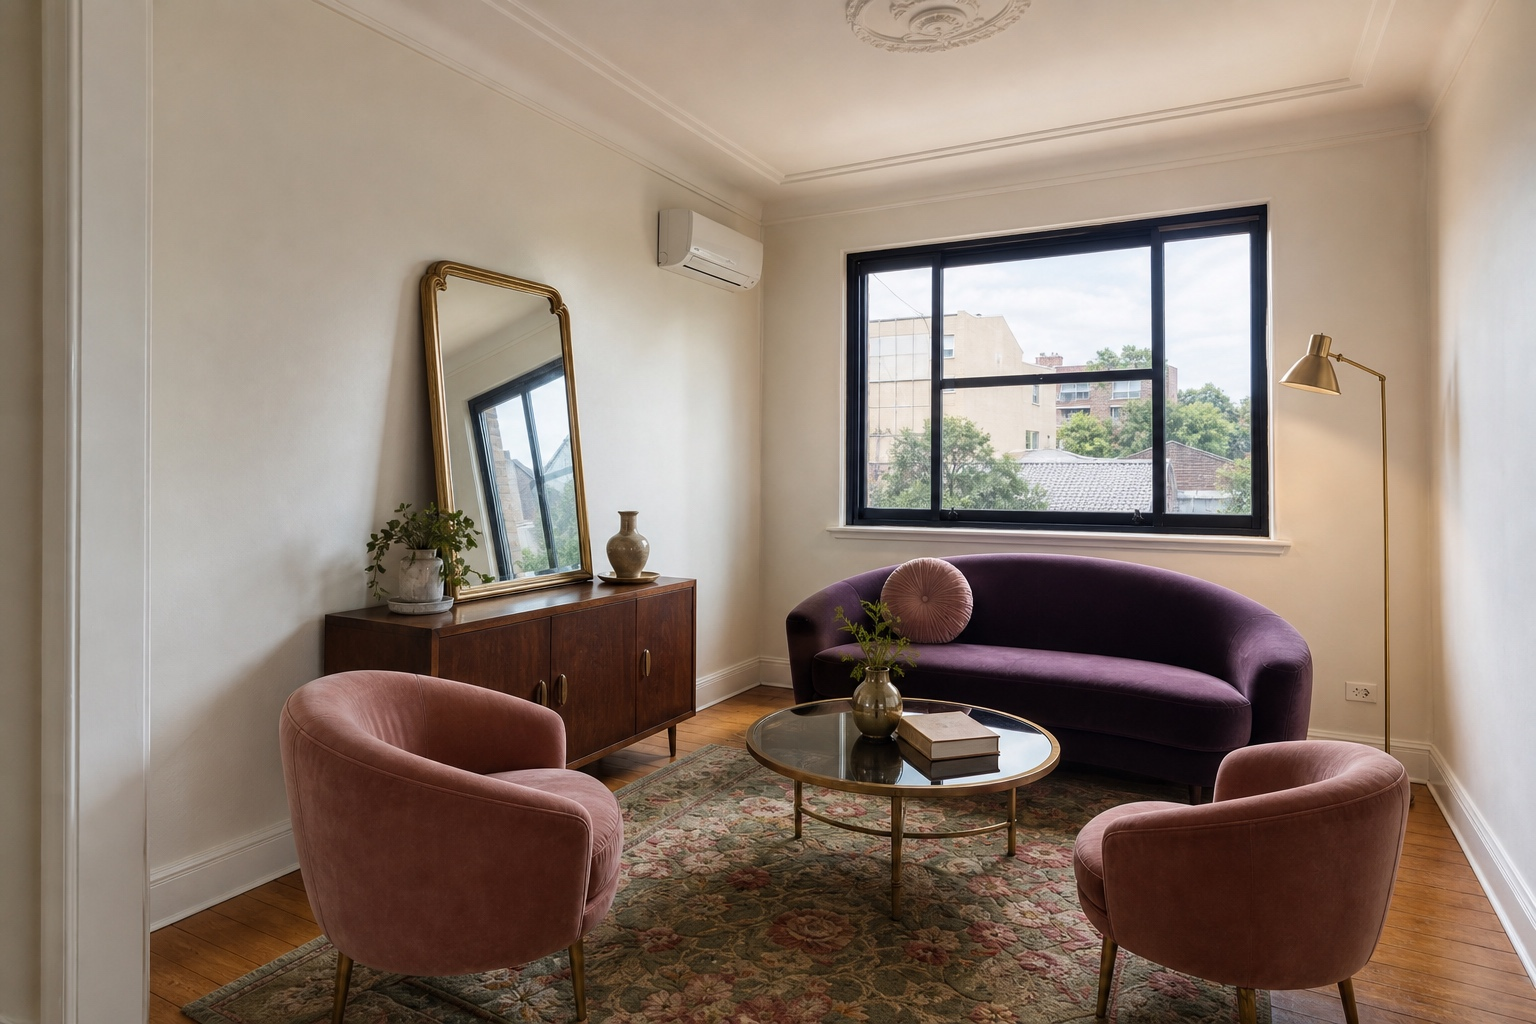
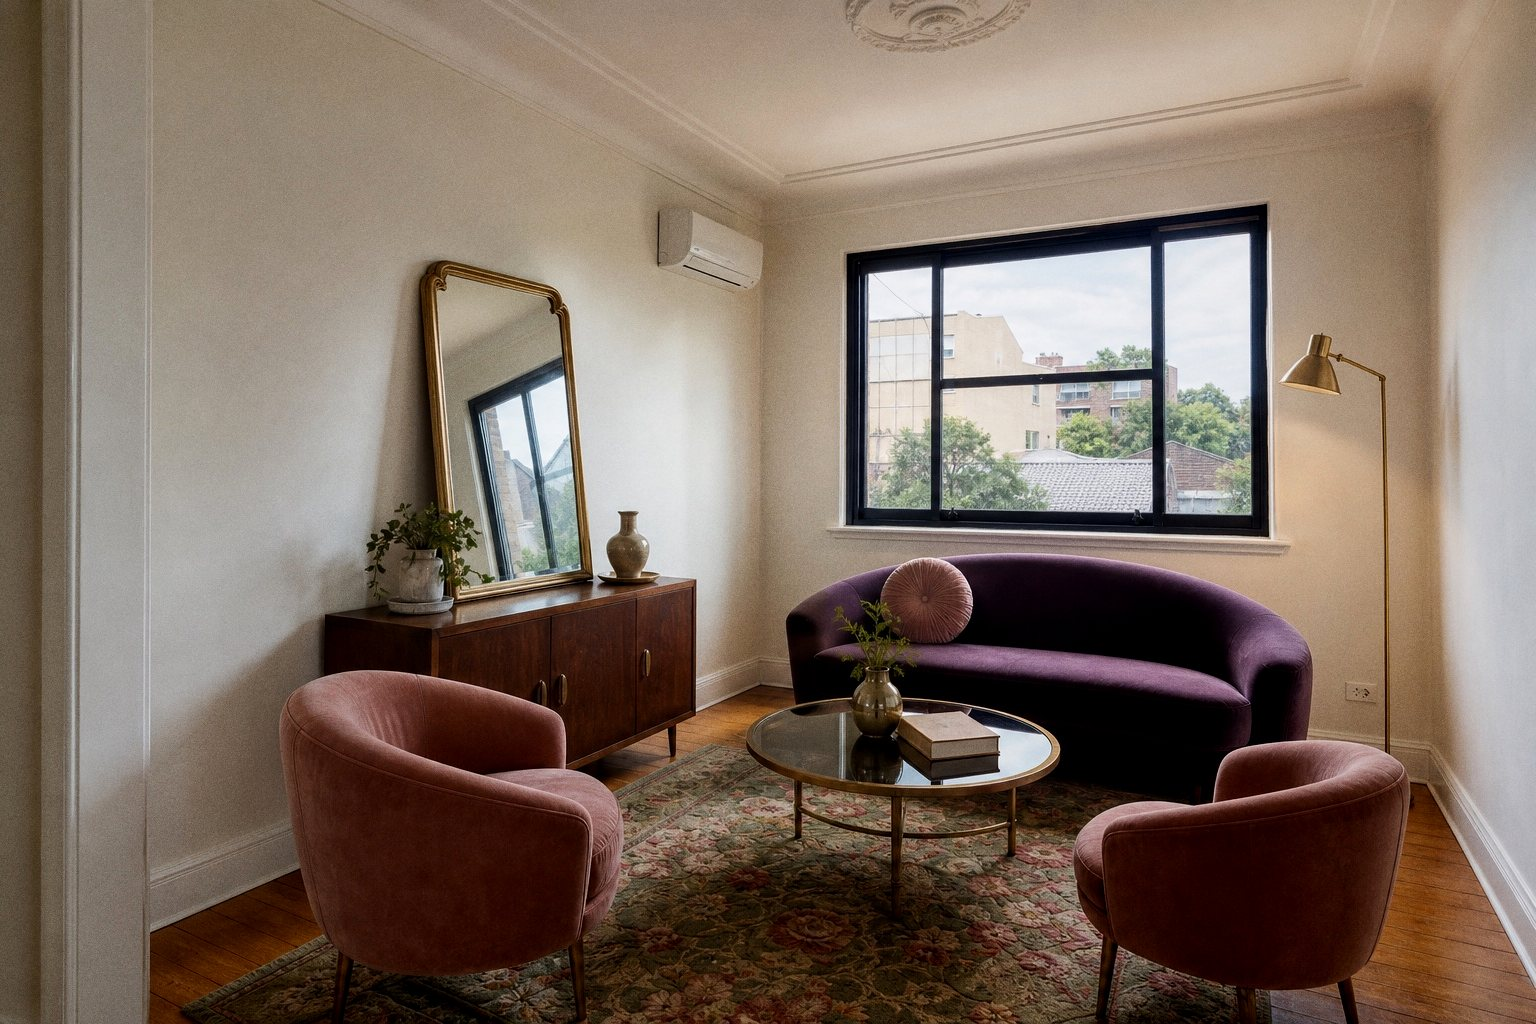
Refined bookmark rail: brand diamond markers + hairline + Cormorant labels; grade 16 new v2/v3 pair images

Changed region(s): [[0.0, 0.0, 1.0, 1.0]]

diff --git a/src/components/StyleGallery.tsx b/src/components/StyleGallery.tsx
@@ -1,10 +1,10 @@
 import { useEffect, useState } from 'react'
 import { Link } from 'react-router-dom'
 import BeforeAfter from './BeforeAfter'
-import { roomPairs } from '../data'
+import { roomPairs, visibleStyleIndicesByRoom } from '../data'
 import { useLang } from '../i18n'
 
-// 六个功能区 × 三种风格，每格一个「空房 → 布置后」拖动对比。
+// 六个功能区 × 两种公开风格，每格一个「空房 → 布置后」拖动对比。
 // preview 模式（首页）只显示 6 格布置后的静态方格，点击进入 /gallery。
 // 完整模式按房间分节：桌面端左侧粘性快速跳转，移动端顶部横向胶囊条。
 const ROOM_IDS = ['living', 'lounge', 'dining', 'kitchen', 'bedroom', 'bathroom']
@@ -13,8 +13,8 @@ export default function StyleGallery({ preview = false }: { preview?: boolean })
   const { t } = useLang()
   const [active, setActive] = useState(ROOM_IDS[0])
 
-  // 首页预览 6 格：六个空间轮流展示三个系列（豪宅/温馨公寓/撞色）
-  const PREVIEW_IDX = [0, 4, 8, 9, 13, 17]
+  // 首页预览每个房间 1 格，仅保留 Living 一组豪宅作为首屏代表。
+  const PREVIEW_IDX = [0, 4, 8, 10, 13, 16]
 
   // 滚动监听：高亮当前所在房间（仅完整模式）
   useEffect(() => {
@@ -65,12 +65,11 @@ export default function StyleGallery({ preview = false }: { preview?: boolean })
     document.getElementById(id)?.scrollIntoView({ behavior: 'smooth', block: 'start' })
   }
 
-  // 按房间分组：每组 3 格（与 roomPairs / t.styles 同序）
+  // 按房间分组：每组 2 格，源素材索引仍与 roomPairs / t.styles 对齐。
   const groups = ROOM_IDS.map((id, g) => ({
     id,
     label: t.gallery.rooms[g],
-    items: [0, 1, 2].map((k) => {
-      const i = g * 3 + k
+    items: visibleStyleIndicesByRoom[g].map((i) => {
       return { pair: roomPairs[i], style: t.styles[i] }
     }),
   }))
@@ -96,37 +95,42 @@ export default function StyleGallery({ preview = false }: { preview?: boolean })
         </div>
       </div>
 
-      {/* 宽屏：左侧书签圆点导航（固定在屏幕左缘，衬底卡片 + 大号 dot + 房间名常显） */}
+      {/* 宽屏：左侧书签导航——品牌菱形 ◆ + 细竖线的编辑感设计 */}
       <nav
         aria-label="Room bookmarks"
-        className="fixed left-7 top-1/2 z-40 hidden -translate-y-1/2 flex-col gap-5 rounded-2xl border border-oak/15 bg-linen/90 px-5 py-6 shadow-lg backdrop-blur min-[1400px]:flex"
+        className="fixed left-10 top-1/2 z-40 hidden -translate-y-1/2 min-[1400px]:block"
       >
-        {groups.map((g) => (
-          <button
-            key={g.id}
-            onClick={() => jump(g.id)}
-            className="group flex items-center gap-3.5"
-          >
-            <span className="flex h-5 w-5 items-center justify-center">
-              <span
-                className={`rounded-full transition-all duration-300 ${
-                  active === g.id
-                    ? 'h-4.5 w-4.5 bg-brand shadow ring-4 ring-brand/20'
-                    : 'h-3 w-3 bg-ink/25 group-hover:h-4 group-hover:w-4 group-hover:bg-ink/50'
-                }`}
-              />
-            </span>
-            <span
-              className={`whitespace-nowrap text-[15px] transition-colors ${
-                active === g.id
-                  ? 'font-semibold text-brand-dark'
-                  : 'text-ink/55 group-hover:text-ink/85'
-              }`}
-            >
-              {g.label}
-            </span>
-          </button>
-        ))}
+        <div className="relative">
+          <span className="absolute bottom-3 left-[5.5px] top-3 w-px bg-oak/30" aria-hidden />
+          <div className="flex flex-col gap-7">
+            {groups.map((g) => (
+              <button
+                key={g.id}
+                onClick={() => jump(g.id)}
+                className="group flex items-center gap-4"
+              >
+                <span className="relative z-10 flex h-3 w-3 items-center justify-center">
+                  <span
+                    className={`block rotate-45 transition-all duration-300 ${
+                      active === g.id
+                        ? 'h-3 w-3 bg-brand shadow-sm'
+                        : 'h-2 w-2 border border-oak/70 bg-cream group-hover:bg-oak/40'
+                    }`}
+                  />
+                </span>
+                <span
+                  className={`font-display whitespace-nowrap text-[17px] tracking-wide transition-colors ${
+                    active === g.id
+                      ? 'text-ink'
+                      : 'text-ink/45 group-hover:text-ink/80'
+                  }`}
+                >
+                  {g.label}
+                </span>
+              </button>
+            ))}
+          </div>
+        </div>
       </nav>
 
       {/* 分组内容 */}
@@ -138,7 +142,7 @@ export default function StyleGallery({ preview = false }: { preview?: boolean })
                 <h2 className="font-display text-2xl">{g.label}</h2>
                 <span className="h-px flex-1 bg-oak/25" />
               </div>
-              <div className="grid gap-x-6 gap-y-10 sm:grid-cols-2 xl:grid-cols-3">
+              <div className="grid gap-x-6 gap-y-10 sm:grid-cols-2">
                 {g.items.map(({ pair: p, style: s }) => (
                   <div key={p.after}>
                     <BeforeAfter before={p.before} after={p.after} />

diff --git a/src/components/AIStudio.tsx b/src/components/AIStudio.tsx
@@ -1,7 +1,7 @@
 import { useEffect, useMemo, useRef, useState } from 'react'
 import { Link } from 'react-router-dom'
 import { MapPin, Sparkles } from 'lucide-react'
-import { addressSuggestions } from '../data'
+import { addressSuggestions, visibleStyleIndices } from '../data'
 import { useLang } from '../i18n'
 
 type Phase = 'idle' | 'thinking' | 'done' | 'limit'
@@ -151,41 +151,44 @@ export default function AIStudio() {
               <p className="text-sm text-ink/70">{t.ai.nearby(nearbyCount(address), address)}</p>
             </div>
             <div className="grid gap-6 sm:grid-cols-2 lg:grid-cols-3">
-              {t.styles.map((style, i) => (
-                <article
-                  key={style.name}
-                  className="animate-fade-up overflow-hidden rounded-t-[9rem] rounded-b-2xl bg-linen shadow-sm transition-shadow hover:shadow-md"
-                  style={{ animationDelay: `${i * 0.08}s` }}
-                >
-                  <div className="relative aspect-[4/3] overflow-hidden">
-                    <img
-                      src={style.img}
-                      alt={`${style.name} styling preview`}
-                      loading="lazy"
-                      className="h-full w-full object-cover transition-transform duration-500 hover:scale-105"
-                    />
-                    {i === 0 && (
-                      <span className="absolute bottom-3 left-3 rounded-full bg-brand px-3 py-1 text-xs font-medium text-white">
-                        {t.ai.topPick}
-                      </span>
-                    )}
-                  </div>
-                  <div className="p-5">
-                    <h3 className="font-display text-xl">{style.name}</h3>
-                    <p className="mt-1.5 text-sm text-ink/65">{style.blurb}</p>
-                    <div className="mt-3 flex flex-wrap gap-1.5">
-                      {style.tags.map((tag) => (
-                        <span
-                          key={tag}
-                          className="rounded-full bg-sand px-2.5 py-1 text-xs text-ink/70"
-                        >
-                          {tag}
+              {visibleStyleIndices.map((styleIndex, displayIndex) => {
+                const style = t.styles[styleIndex]
+                return (
+                  <article
+                    key={style.name}
+                    className="animate-fade-up overflow-hidden rounded-t-[9rem] rounded-b-2xl bg-linen shadow-sm transition-shadow hover:shadow-md"
+                    style={{ animationDelay: `${displayIndex * 0.08}s` }}
+                  >
+                    <div className="relative aspect-[4/3] overflow-hidden">
+                      <img
+                        src={style.img}
+                        alt={`${style.name} styling preview`}
+                        loading="lazy"
+                        className="h-full w-full object-cover transition-transform duration-500 hover:scale-105"
+                      />
+                      {displayIndex === 0 && (
+                        <span className="absolute bottom-3 left-3 rounded-full bg-brand px-3 py-1 text-xs font-medium text-white">
+                          {t.ai.topPick}
                         </span>
-                      ))}
+                      )}
                     </div>
-                  </div>
-                </article>
-              ))}
+                    <div className="p-5">
+                      <h3 className="font-display text-xl">{style.name}</h3>
+                      <p className="mt-1.5 text-sm text-ink/65">{style.blurb}</p>
+                      <div className="mt-3 flex flex-wrap gap-1.5">
+                        {style.tags.map((tag) => (
+                          <span
+                            key={tag}
+                            className="rounded-full bg-sand px-2.5 py-1 text-xs text-ink/70"
+                          >
+                            {tag}
+                          </span>
+                        ))}
+                      </div>
+                    </div>
+                  </article>
+                )
+              })}
             </div>
             <div className="mt-10 flex flex-col items-center gap-3">
               <Link

diff --git a/src/data.ts b/src/data.ts
@@ -7,8 +7,8 @@ const pair = (name: string) => ({
   after: `${import.meta.env.BASE_URL}pair-${name}-after.jpg`,
 })
 
-// 18 对，按房间分组（每行 3 格 = 同一空间的三种风格），与 t.styles 同序：
-// 无后缀=大宅奢华系，2=温暖简约系，3=撞色个性系。
+// 18 对源素材仍按房间分组保存，与 t.styles 同序。
+// 公开页面通过 visibleStyleIndicesByRoom 收敛为每个房间 2 组。
 export const roomPairs = [
   pair('living-v3'),
   pair('living2-v2'),
@@ -18,7 +18,7 @@ export const roomPairs = [
   pair('lounge3-v2'),
   pair('dining'),
   pair('dining2-v2'),
-  pair('dining3'),
+  pair('dining3-v2'),
   pair('kitchen'),
   pair('kitchen2-v2'),
   pair('kitchen3'),
@@ -29,6 +29,18 @@ export const roomPairs = [
   pair('bath2'),
   pair('bath3'),
 ]
+
+// 公开展示 12 组，仅保留两组明确豪宅风：Living · Modern Luxe、Bathroom · Resort Spa。
+export const visibleStyleIndicesByRoom = [
+  [0, 1],
+  [4, 5],
+  [7, 8],
+  [10, 11],
+  [13, 14],
+  [15, 16],
+]
+
+export const visibleStyleIndices = visibleStyleIndicesByRoom.flat()
 
 // 各功能区代表图 = 布置后（供 i18n 与 MoodBoard 使用）
 export const styleImgs = roomPairs.map((p) => p.after)
